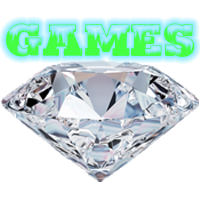
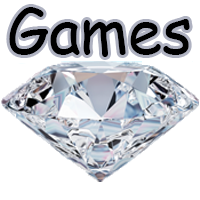
Made sum changes

Changed region(s): [[0.0, 0.0, 1.0, 0.33]]

diff --git a/styles/styles.css b/styles/styles.css
@@ -51,6 +51,7 @@ li {
     font-size: 2rem;
     text-align: center;
     color:white;
+    background-color:rgb(0, 0, 0);
 }
 
 .text_style_maniac {
@@ -115,10 +116,10 @@ li {
     background-image: url(../images/controller.png);
     height: 64px;
     font-size: 3rem;
-    color: limegreen;
+    color: rgb(205, 50, 50);
+    background-color: black;
     text-align: center;
 }
-
 #released_banner {
     background-image: url(../images/gem.gif);
     height: 64px;

diff --git a/index.html b/index.html
@@ -38,6 +38,8 @@
                 <a href="links.html"><img src="images/earth.gif" class="homepage_button_img"></a>
             </div>
         </div>
+
+        <br class="big_break">
   
     </body>
 </html>
